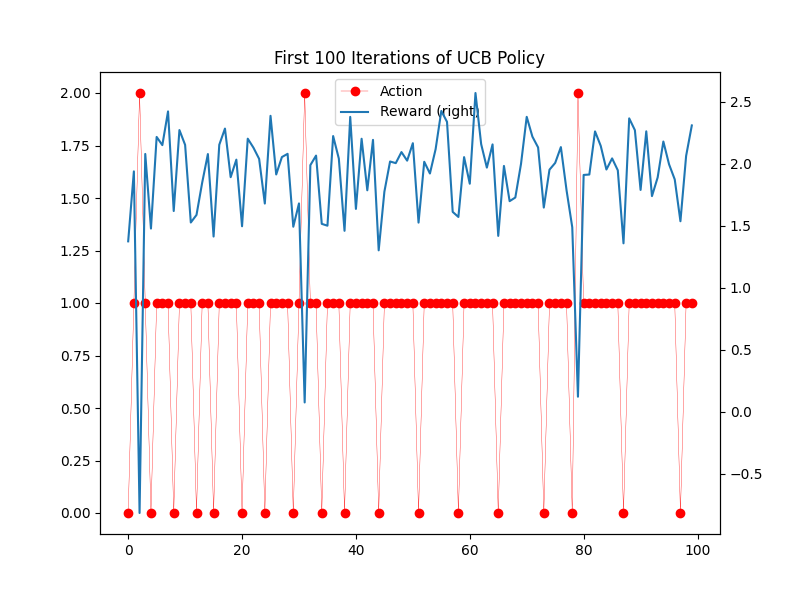
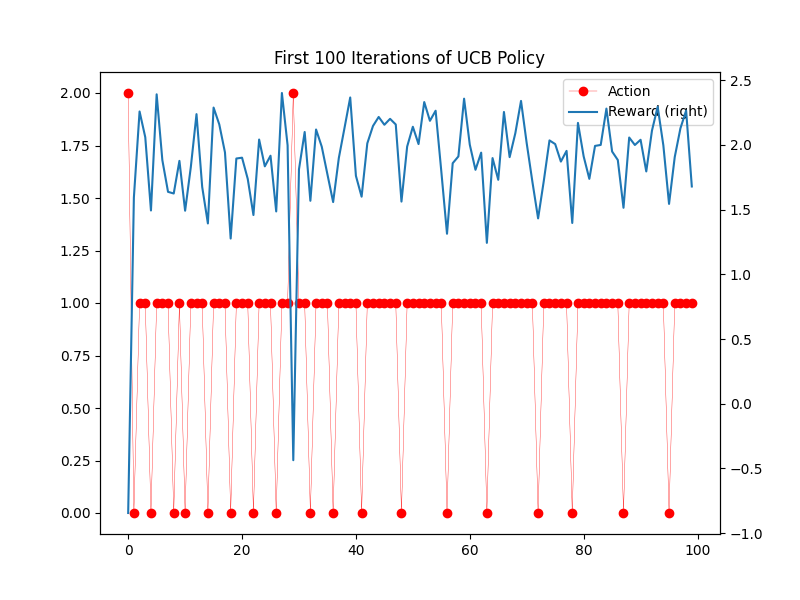
include gradient bandit policy

diff --git a/stationary_problem/environ.py b/stationary_problem/environ.py
@@ -90,40 +90,53 @@ class Policy:
         env: RLEnviron, 
         initial_value: float, 
         step_size: float = 1.0,
-        step_type: str = 'default'
+        step_low_lim: float = None
         ) -> None:
 
         if step_size <= 0.0 or step_size > 1.0:
             raise ValueError("step_size is out of range")
+
         self.env = env
+        if self.env.env_size < 1:
+            raise RuntimeError("Environment is Empty")
+
         self.initial_value = initial_value
         self.Q = np.array([initial_value for _ in range(env.env_size)])
         self.step_size = step_size
-        self.step_type = step_type
-
+        self.step_low_lim = step_low_lim
         self.bandit_counts = np.zeros(self.env.env_size, dtype=np.int32)
+        self.prob = np.array([1.0/self.env.env_size for _ in range(self.env.env_size)]) 
 
     def select_action(self):
         """
         Select Random Option by Default
         """
-        return np.random.choice(self.env.env_size)
+        return np.random.choice(self.env.env_size, p=self.prob)
     
     def q_update(self, k:int, reward:float):
         self.Q[k] += self.s_size(k) * (reward - self.Q[k])
 
+    def update_probs(self):
+        """
+        By Default Probabilities of Action Selection Are Kept Equal and Constant
+        This Results in Random Action Policy
+        """
+        pass
+
     def update(self):
+        self.update_probs()
         action = self.select_action()
         reward = self.env.k_outcome(action)
         self.bandit_counts[action] += 1
         self.q_update(action, reward)
-        return action, reward, self.Q
+        return action, reward
 
     def s_size(self, k:int):
-        if self.step_type == 'constant':
-            return self.step_size
+        default_step_size = self.step_size / self.bandit_counts[k]
+        if self.step_low_lim and (default_step_size < self.step_low_lim):
+            return self.step_low_lim
         else:
-            return self.step_size / self.bandit_counts[k]
+            return default_step_size
 
     def __repr__(self) -> str:
         fmt = "Policy(env={0.env!r},initial_value={0.initial_value},step_size={0.step_size})"
@@ -146,30 +159,25 @@ class EpsilonGreedy(Policy):
         ) -> None:
         super().__init__(env, initial_value, step_size)
 
-        if self.env.env_size < 1:
-            raise RuntimeError("Environment is Empty")
         if epsilon <= 0 or epsilon > 1.0:
             raise ValueError("Epsilon is Out of Range")
 
         self.epsilon = epsilon
 
-        self.default_prob = np.ones(self.env.env_size) 
-        self.default_prob /= (self.env.env_size - 1)
-        self.default_prob *= self.epsilon
-
-    def select_action(self):
+    def update_probs(self):
         max = self.Q.max()
         opt = np.where(self.Q == max)[0]
         if self.env.env_size == len(opt):
-            return np.random.choice(self.env.env_size)
+            self.prob = np.array([1.0/self.env.env_size for _ in range(self.env.env_size)])
+            return
         # Probability of Selection for Non Max Actions (Sums to epsilon)
         # Assign this probability by default
         n_non_max = self.env.env_size - len(opt)
         prob = np.ones(self.env.env_size) * self.epsilon / n_non_max
         # Probability of Selection for Max Actions (Sums to 1 - epsilon)
         prob[opt] = (1.0  - self.epsilon) / len(opt)
-        prob = prob / sum(prob) # Assure Sum to Zero
-        return np.random.choice(self.env.env_size, p=prob)
+        prob = prob / prob.sum() # Assure Sum to 1.0
+        self.prob = prob
 
     def __repr__(self) -> str:
         fmt = "EpsilonGreedy(epsilon={0.epsilon},env={0.env!r}"
@@ -184,10 +192,12 @@ class Greedy(Policy):
     Greedy Policy Sub-Class
     """
 
-    def select_action(self):
+    def update_probs(self):
         max = self.Q.max()
         nearopt = np.where(self.Q > max - 1e-12)[0]
-        return np.random.choice(nearopt)
+        prob = np.zeros(self.env.env_size)
+        prob[nearopt] = 1.0 / len(nearopt)
+        self.prob = prob
 
     def __repr__(self) -> str:
         fmt = "Greedy(env={0.env!r},initial_value={0.initial_value},step_size={0.step_size})"
@@ -211,10 +221,8 @@ class UCB(Policy):
         ) -> None:
         super().__init__(env, initial_value, step_size)
 
-        if self.env.env_size < 1:
-            raise RuntimeError("Environment is Empty")
         if c_param <= 0:
-            raise ValueError("c Parameter Non-Nositive")
+            raise ValueError("c Parameter Has to Be Positive")
         self.c_param = c_param
 
     def select_action(self):
@@ -245,40 +253,30 @@ class GradientBandit(Policy):
     def __init__(
         self, 
         env: RLEnviron, 
-        step_size: float
+        h_step_size: float
         ) -> None:
-        super().__init__(env, initial_value=0.0, step_size=step_size, step_type='constant')
+        super().__init__(env, initial_value=0.0)
 
         self.average_reward = 0.0
         self.nreps = 0
         self.H = np.ones(self.env.env_size)
-        self.update_probs() # Use Equal Probabilities at Init
+        self.h_step_size = h_step_size
 
     def update_probs(self):
         e = np.exp(self.H)
         self.prob = e / e.sum()
 
-    def select_action(self):
-        return np.random.choice(self.env.env_size, p=self.prob)
-
     def h_update(self, k:int, reward:float):
         rdiff = reward - self.average_reward
-        self.H -= self.step_size * rdiff * self.prob
-        self.H[k] += self.step_size * rdiff
-
-    def q_update(self, k: int, reward: float):
-        self.Q[k] += (reward - self.Q[k]) / self.bandit_counts[k]
+        self.H -= self.h_step_size * rdiff * self.prob
+        self.H[k] += self.h_step_size * rdiff
 
     def update(self):
-        action = self.select_action()
-        reward = self.env.k_outcome(action)
+        action, reward = super().update()
         self.h_update(action, reward)
-        self.update_probs()
         self.nreps += 1
-        self.bandit_counts[action] += 1
-        self.q_update(action, reward)
         self.average_reward +=  (reward - self.average_reward) / self.nreps
-        return action, reward, self.Q
+        return action, reward
 
     def __repr__(self) -> str:
         fmt = "GradientBandit(env={0.env!r},step_size={0.step_size})"
@@ -303,16 +301,28 @@ def main():
 
     np.random.seed(22)
     gb_policy = GradientBandit(rlenv, 0.1)
-
     print(gb_policy)
     print(repr(gb_policy))
     for i in range(10):
-        action, reward, q = gb_policy.update()
+        action, reward = gb_policy.update()
+        q = gb_policy.Q
         fmt = "Action:{:2d} Reward:{:6.3f} Avg Reward:{:6.3f} Q:{}"
         print(fmt.format(action, reward, gb_policy.average_reward, np.round(q,2)))
 
     print("Bandit Counts = ", gb_policy.bandit_counts)
     print("Selection Probabilities = ", gb_policy.prob)
+
+    ra_policy = Policy(rlenv, 0.1, step_low_lim = 0.001)
+    print(ra_policy)
+    print(repr(ra_policy))
+    for i in range(10):
+        action, reward = ra_policy.update()
+        q = ra_policy.Q
+        fmt = "Action:{:2d} Reward:{:6.3f} Q:{}"
+        print(fmt.format(action, reward, np.round(q,2)))
+
+    print("Bandit Counts = ", ra_policy.bandit_counts)
+    print("Selection Probabilities = ", ra_policy.prob)
 
 
 if __name__ == '__main__':

diff --git a/stationary_problem/simulate.py b/stationary_problem/simulate.py
@@ -1,4 +1,4 @@
-from environ import Policy, Greedy, EpsilonGreedy, RLEnviron, UCB
+from environ import Policy, Greedy, EpsilonGreedy, RLEnviron, UCB, GradientBandit
 import os
 import sys
 import numpy as np
@@ -10,7 +10,8 @@ def simulate_policy(policy, n):
     rewards = []
     Q = []
     for _ in range(n):
-        a, r, q = policy.update()
+        a, r = policy.update()
+        q = policy.Q
         actions.append(a)
         rewards.append(r)
         Q.append(q)
@@ -46,6 +47,7 @@ def main():
     eps_greedy = EpsilonGreedy(0.1, rlenv, 5.0)
     rnd_policy = Policy(rlenv, 5.0)
     ucb_policy = UCB(2.0, rlenv, 5.0)
+    gbnd_policy = GradientBandit(rlenv, 0.10)
 
     n_periods = 100000
     n_rolling = 1000
@@ -67,6 +69,11 @@ def main():
         *simulate_policy(ucb_policy, n_periods), file=file
     )
 
+    print('##', gbnd_policy, file=file)
+    gbnd = summary_report(
+        *simulate_policy(gbnd_policy, n_periods), file=file
+    )
+
     print('##', rnd_policy, file=file)
     rpol = summary_report(
         *simulate_policy(rnd_policy, n_periods), file=file
@@ -82,6 +89,7 @@ def main():
     grd['Reward'].rename(greedy).ewm(alpha=ewmalpha).mean()[n_warmup:].plot()
     egrd['Reward'].rename(eps_greedy).ewm(alpha=ewmalpha).mean()[n_warmup:].plot()
     ucb['Reward'].rename('UCB Policy').ewm(alpha=ewmalpha).mean()[n_warmup:].plot(ax=ax)    
+    gbnd['Reward'].rename('Gradient Bandit Policy').ewm(alpha=ewmalpha).mean()[n_warmup:].plot(ax=ax)    
     rpol['Reward'].rename('Random Policy').ewm(alpha=ewmalpha).mean()[n_warmup:].plot(ax=ax)    
     plt.title('Reward Exp Smooth Mean by Policy')
     plt.legend()
@@ -93,6 +101,7 @@ def main():
     grd['Reward'].rename(greedy).rolling(window=n_rolling).mean().plot(ax=ax)
     egrd['Reward'].rename(eps_greedy).rolling(window=n_rolling).mean().plot(ax=ax)
     ucb['Reward'].rename('UCB Policy').rolling(window=n_rolling).mean().plot(ax=ax)    
+    gbnd['Reward'].rename('Gradient Bandit Policy').rolling(window=n_rolling).mean().plot(ax=ax)
     rpol['Reward'].rename('Random Policy').rolling(window=n_rolling).mean().plot(ax=ax)
     plt.title(f'Reward Rolling Mean (mem={n_rolling}) by Policy')
     plt.legend()

diff --git a/stationary_problem/Readme.md b/stationary_problem/Readme.md
@@ -9,20 +9,24 @@ Bandit(avg_reward = 0.0, std_reward = 1.0)
 Optimal Values: [1.5 2.  0. ]
 ## Greedy Policy
 - Average Reward: 2.001
-- Final Q-values: [ 1.512 2.001 1.033 ]
+- Final Q-values: [ 1.399 2.001 0.955 ]
 - Action Frequency: 0:1 1:99998 2:1 
 ## Epsilon Greedy Policy eps=0.100
-- Average Reward: 1.874
-- Final Q-values: [ 1.501 2.000 0.011 ]
-- Action Frequency: 0:4941 1:89961 2:5098 
+- Average Reward: 1.875
+- Final Q-values: [ 1.500 2.001 0.015 ]
+- Action Frequency: 0:4977 1:89926 2:5097 
 ## UCB Policy(2.0)
+- Average Reward: 1.998
+- Final Q-values: [ 1.485 1.999 0.185 ]
+- Action Frequency: 0:161 1:99825 2:14 
+## Gradient Bandit Policy
 - Average Reward: 1.999
-- Final Q-values: [ 1.489 2.000 0.169 ]
-- Action Frequency: 0:163 1:99823 2:14 
+- Final Q-values: [ 1.501 2.000 -0.097 ]
+- Action Frequency: 0:68 1:99911 2:21 
 ## Random Action Policy
-- Average Reward: 1.170
-- Final Q-values: [ 1.500 2.000 -0.004 ]
-- Action Frequency: 0:33266 1:33611 2:33123 
+- Average Reward: 1.165
+- Final Q-values: [ 1.500 2.002 -0.001 ]
+- Action Frequency: 0:33510 1:33114 2:33376 
 ![plot](Figure_3.png)
 ![plot](Figure_1.png)
 ![plot](Figure_2.png)
